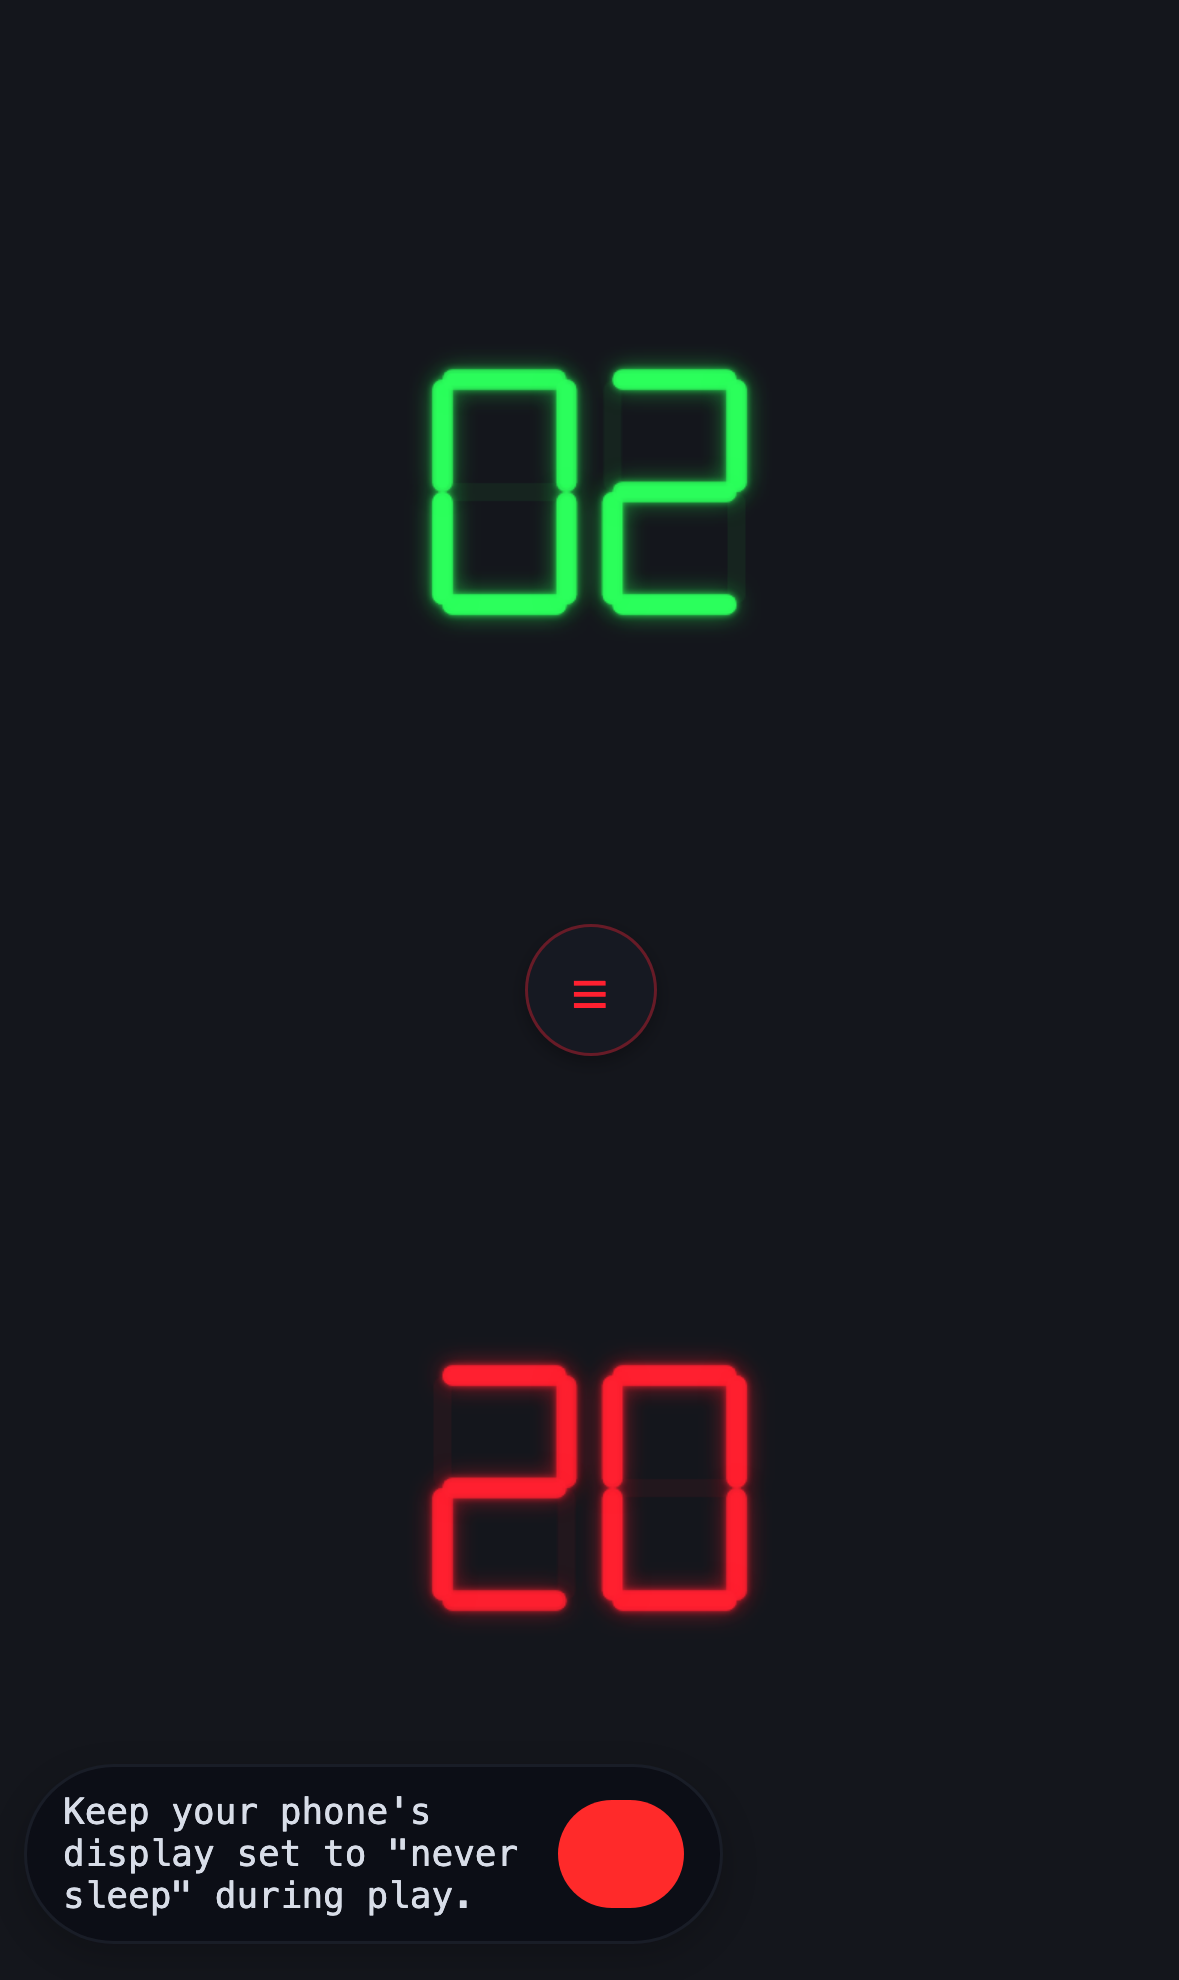
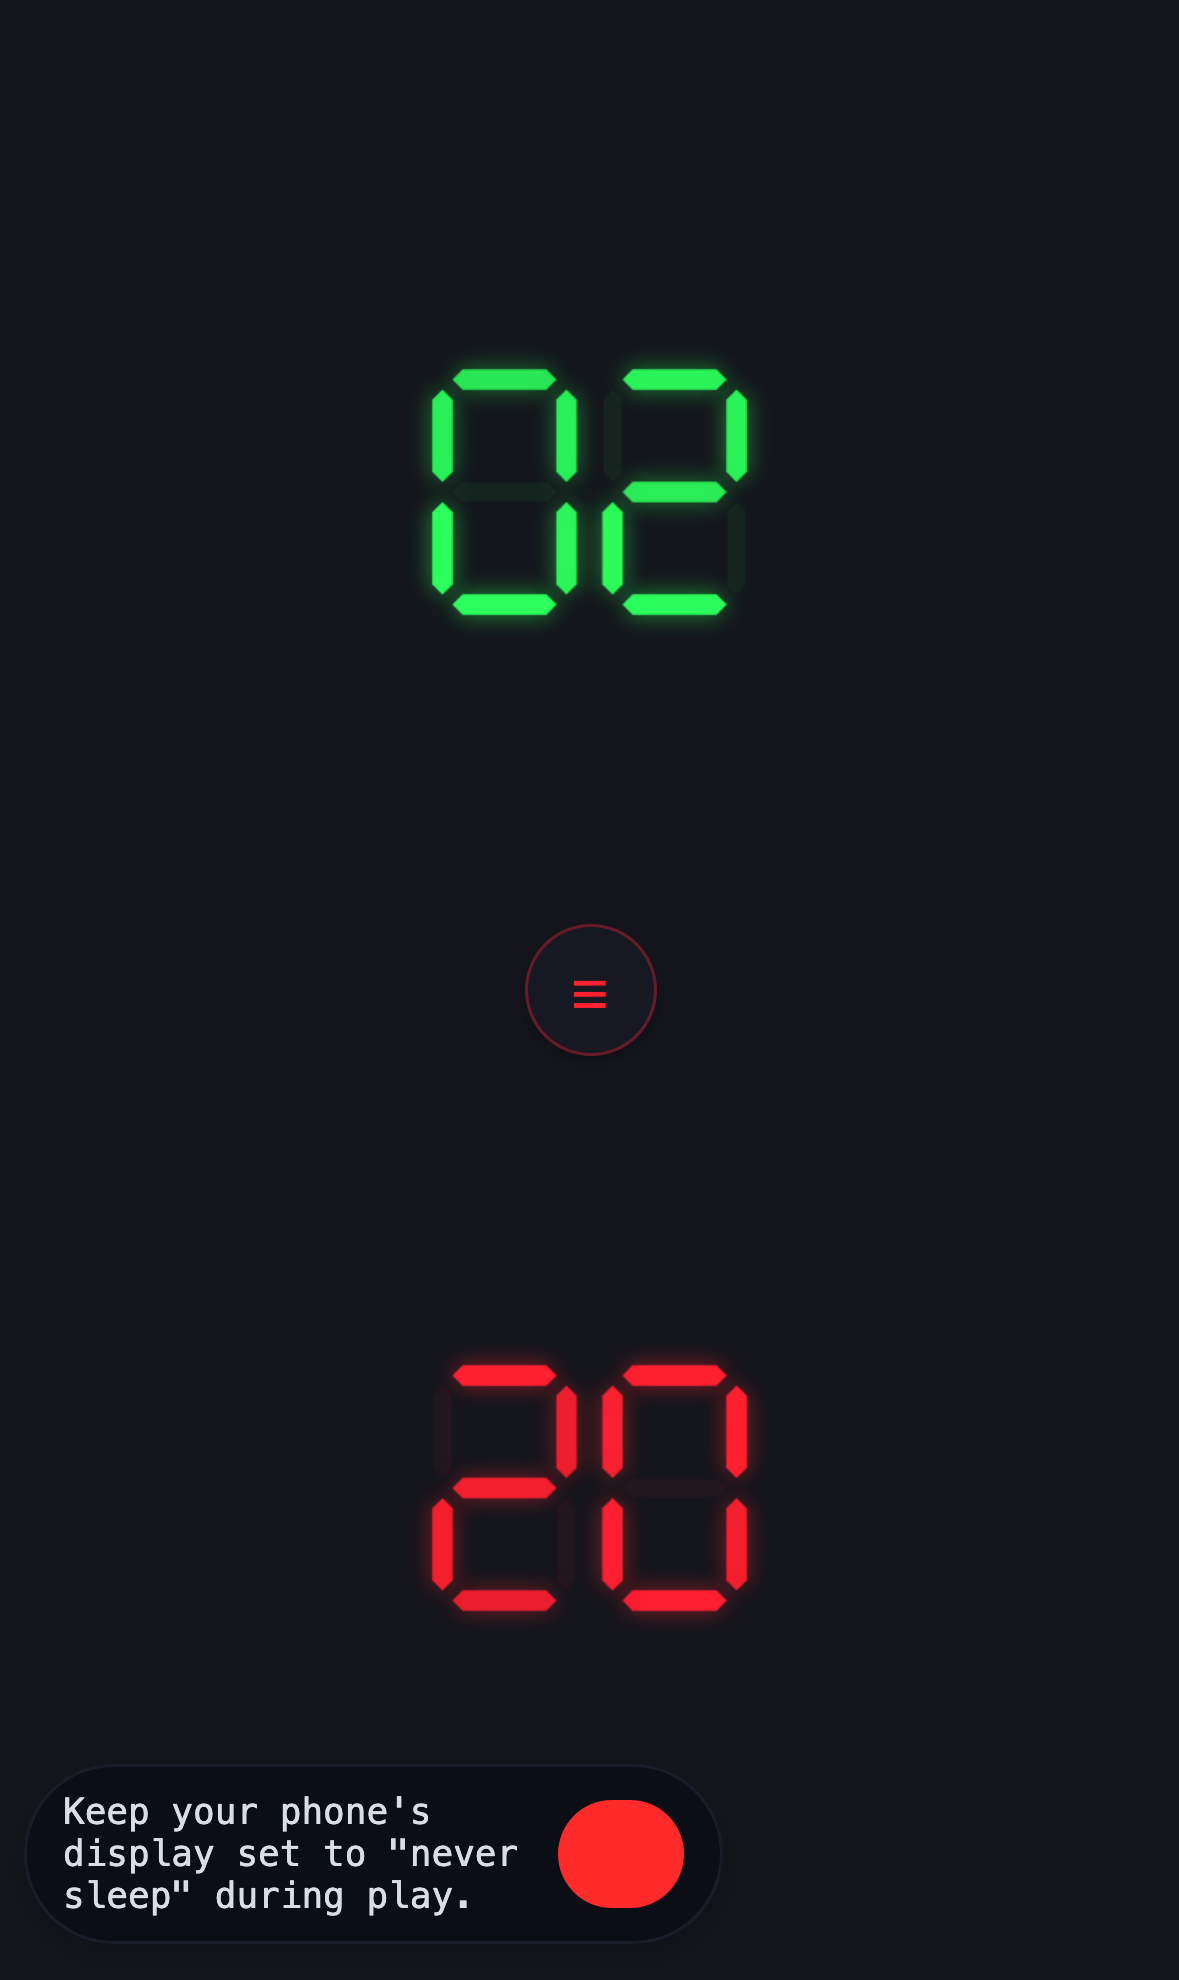
7seg: hexagonal segments + electric blue P5
Three changes for the Marantz-VFD look:

1. Segments are now hexagonal polygons instead of round-cap stroked
   lines. Each tip sits exactly at the segment endpoint with shoulders
   inset by T/2 along the axis. Adjacent segments meeting at a digit
   corner leave a small notch — the classic LCD/VFD signature visible
   in the Marantz CD63SE reference.

2. Eliminated the corner alpha doubling that was creating the "slight
   overlap with transparency". Old: 3-pass round-cap stroke (halo +
   inner + crisp) layered alphas at the rounded cap zones that crossed
   into adjacent segments. New: 2-pass fill (halo + crisp core) on a
   sharp-tip hex that doesn't bleed into the neighbour.

3. P5 colour: #2a8cff → #0ad4ff (electric/VFD cyan-blue) matching the
   reference tube colour. The other four (P1 red / P2 green / P3 white
   / P4 orange) unchanged.

Verified Playwright iPhone-14-Pro at 2P and 5P: hexagonal segment
shape clearly readable; corner notches present on every digit;
ghost off-segments still visible behind. Zero console errors.

diff --git a/js/sevenseg.js b/js/sevenseg.js
@@ -161,45 +161,55 @@ function segmentEndpoints(seg, w, h, t) {
   return [0, 0, 0, 0];
 }
 
+// Build a hexagonal polygon (pointed-tip elongated hexagon) from two endpoints
+// + thickness. Tips sit exactly at the endpoints; shoulders are inset by T/2
+// along the axis and offset by T/2 perpendicular. Adjacent segments meeting
+// at a digit corner leave a small notch — the classic VFD/LCD look from the
+// Marantz reference.
+function hexPath(ctx, x1, y1, x2, y2, thickness) {
+  const dx = x2 - x1, dy = y2 - y1;
+  const len = Math.hypot(dx, dy);
+  if (len < 0.001) return;
+  const ux = dx / len, uy = dy / len;     // axis unit
+  const px = -uy, py = ux;                // perpendicular unit (90° CW)
+  const h = thickness / 2;
+  ctx.beginPath();
+  ctx.moveTo(x1, y1);                                  // tip 1
+  ctx.lineTo(x1 + ux * h - px * h, y1 + uy * h - py * h); // upper-near shoulder
+  ctx.lineTo(x2 - ux * h - px * h, y2 - uy * h - py * h); // upper-far shoulder
+  ctx.lineTo(x2, y2);                                  // tip 2
+  ctx.lineTo(x2 - ux * h + px * h, y2 - uy * h + py * h); // lower-far shoulder
+  ctx.lineTo(x1 + ux * h + px * h, y1 + uy * h + py * h); // lower-near shoulder
+  ctx.closePath();
+}
+
 function drawSegment(ctx, x1, y1, x2, y2, thickness, color, brightness, isOn) {
   if (!isOn) {
-    // Ghost — barely visible, no glow.
+    // Ghost — single, barely visible fill.
     ctx.shadowBlur = 0;
     ctx.globalAlpha = DEFAULTS.ghostAlpha;
-    ctx.strokeStyle = color;
-    ctx.lineWidth = thickness * 0.9;
-    ctx.lineCap = "round";
-    ctx.beginPath();
-    ctx.moveTo(x1, y1);
-    ctx.lineTo(x2, y2);
-    ctx.stroke();
+    ctx.fillStyle = color;
+    hexPath(ctx, x1, y1, x2, y2, thickness * 0.92);
+    ctx.fill();
     ctx.globalAlpha = 1;
     return;
   }
 
-  ctx.lineCap = "round";
+  ctx.fillStyle = color;
   ctx.shadowColor = color;
-  ctx.strokeStyle = color;
 
-  // Outer halo — broad, low alpha.
+  // 1. Outer halo — same hex shape, big blur, half alpha.
   ctx.globalAlpha = 0.55 * brightness;
   ctx.shadowBlur = DEFAULTS.glowBlur;
-  ctx.lineWidth = thickness;
-  ctx.beginPath();
-  ctx.moveTo(x1, y1);
-  ctx.lineTo(x2, y2);
-  ctx.stroke();
+  hexPath(ctx, x1, y1, x2, y2, thickness);
+  ctx.fill();
 
-  // Inner glow — tighter, brighter.
-  ctx.globalAlpha = 0.85 * brightness;
-  ctx.shadowBlur = DEFAULTS.innerGlowBlur;
-  ctx.stroke();
-
-  // Crisp core — no shadow.
-  ctx.globalAlpha = Math.min(1, 1.0 * brightness);
+  // 2. Crisp inner core — no shadow, full alpha. The lack of overlap at
+  //    the pointed tips means corners don't get the double-alpha smudging
+  //    that rounded-cap strokes produced.
+  ctx.globalAlpha = Math.min(1, brightness);
   ctx.shadowBlur = 0;
-  ctx.lineWidth = thickness * 0.65;
-  ctx.stroke();
+  ctx.fill();
 
   ctx.globalAlpha = 1;
   ctx.shadowBlur = 0;

diff --git a/index.html b/index.html
@@ -11,22 +11,22 @@
 
 <title>laifukeisan</title>
 
-<link rel="manifest" href="manifest.webmanifest?v=623a1039">
-<link rel="apple-touch-icon" href="icons/apple-touch-icon.png?v=623a1039">
+<link rel="manifest" href="manifest.webmanifest?v=38604a3f">
+<link rel="apple-touch-icon" href="icons/apple-touch-icon.png?v=38604a3f">
 
-<link rel="stylesheet" href="css/tokens.css?v=623a1039">
-<link rel="stylesheet" href="css/base.css?v=623a1039">
-<link rel="stylesheet" href="css/layout.css?v=623a1039">
-<link rel="stylesheet" href="css/skins.css?v=623a1039">
+<link rel="stylesheet" href="css/tokens.css?v=38604a3f">
+<link rel="stylesheet" href="css/base.css?v=38604a3f">
+<link rel="stylesheet" href="css/layout.css?v=38604a3f">
+<link rel="stylesheet" href="css/skins.css?v=38604a3f">
   <meta http-equiv="Cache-Control" content="no-cache, no-store, must-revalidate">
   <meta http-equiv="Pragma" content="no-cache">
   <meta http-equiv="Expires" content="0">
-  <meta name="cb" content="623a1039">
-  <link rel="icon" type="image/svg+xml" href="cb-shapes/34.svg?v=623a1039">
+  <meta name="cb" content="38604a3f">
+  <link rel="icon" type="image/svg+xml" href="cb-shapes/56.svg?v=38604a3f">
 </head>
 <body data-skin="pastel">
 <main id="board" aria-label="Life counters"></main>
 
-<script type="module" src="js/main.js?v=623a1039"></script>
+<script type="module" src="js/main.js?v=38604a3f"></script>
 </body>
 </html>

diff --git a/css/tokens.css b/css/tokens.css
@@ -207,6 +207,6 @@
   --p4-bg: transparent;
   --p4-fg: #ff8a1a;              /* P4 orange */
   --p5-bg: transparent;
-  --p5-fg: #2a8cff;              /* P5 blue */
+  --p5-fg: #0ad4ff;              /* P5 electric blue — VFD cyan-blue */
 }
 

diff --git a/sw.js b/sw.js
@@ -1,4 +1,4 @@
-const CB_TOKEN = "623a1039";
+const CB_TOKEN = "38604a3f";
 const CACHE_NAME = `lifecounter-${CB_TOKEN}`;
 
 const BADGE_CELLS = [0, 1, 2].map(i =>
